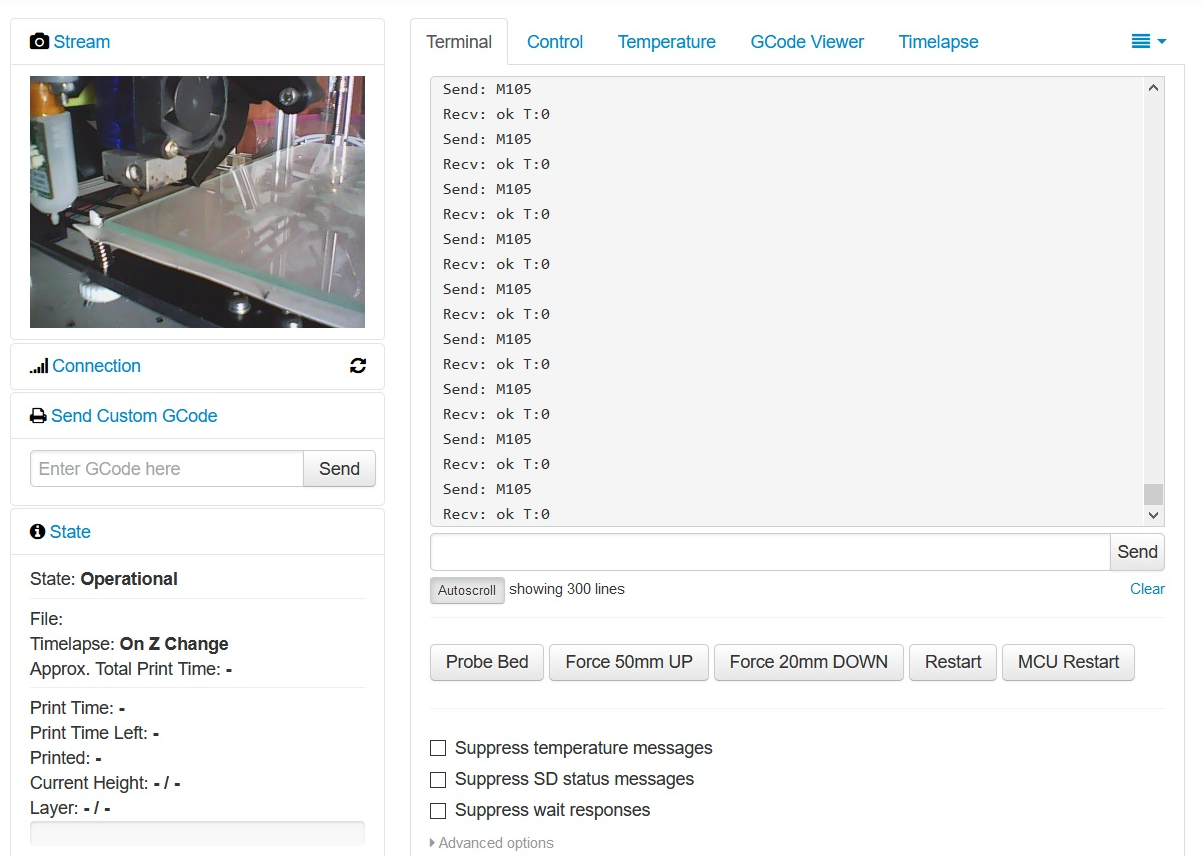
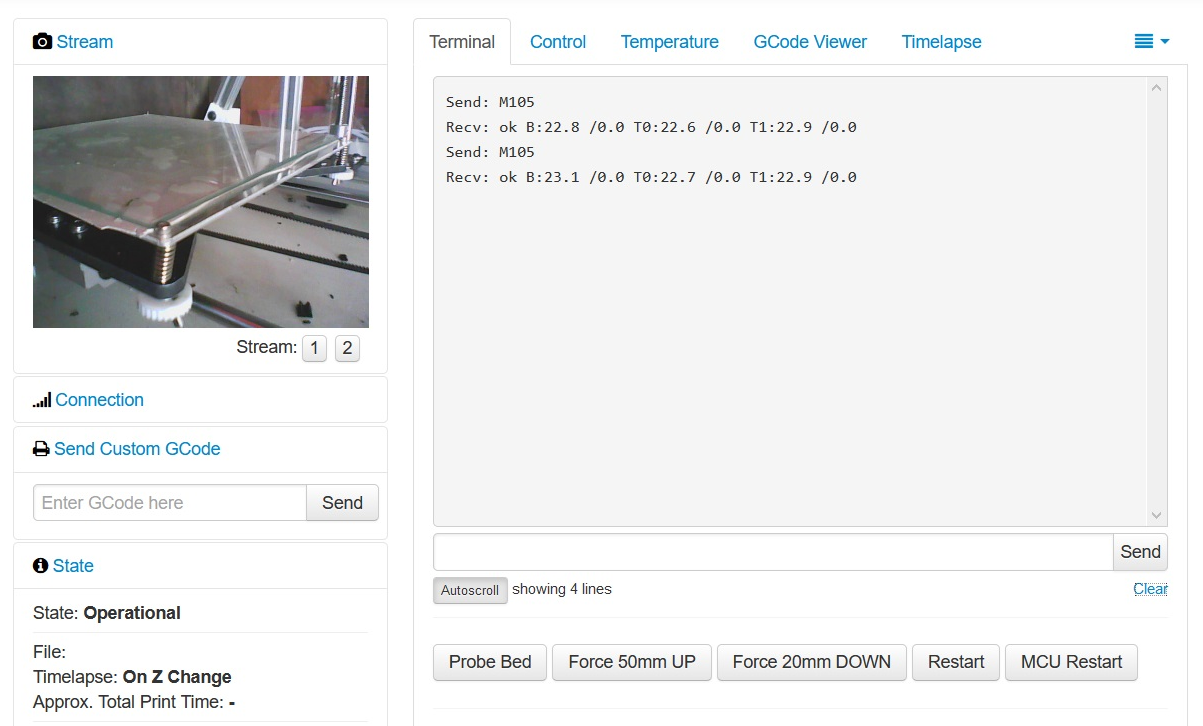
modified:   webcamSB.md 	modified:   ../assets/img/plugins/webcamSB/featured.png 	modified:   ../assets/img/plugins/webcamSB/screen1.png 	deleted:    ../assets/img/plugins/webcamSB/screen2.png

diff --git a/_plugins/webcamSB.md b/_plugins/webcamSB.md
@@ -8,7 +8,7 @@ author: Luis Magar Brunner
 license: AGPLv3
 
 # TODO
-date: 2019-08-17
+date: 2019-09-04
 
 homepage: https://github.com/quanticchaos/OctoPrint-Webcamsb
 source: https://github.com/quanticchaos/OctoPrint-Webcamsb
@@ -28,11 +28,9 @@ tags:
 # TODO
 screenshots:
 - url: /assets/img/plugins/webcamSB/screen1.png
-  alt: Screenshot control
-  caption: Screenchot with terminal
-- url: /assets/img/plugins/webcamSB/screen2.png
   alt: Screenshot settings
   caption: Screenshot of settings
+
 
 # TODO
 featuredimage: /assets/img/plugins/webcamSB/featured.png
@@ -82,5 +80,7 @@ compatibility:
 
 ---
 
-**TODO**: Longer description of your plugin, configuration examples etc. This part will be visible on the page at
-http://plugins.octoprint.org/plugin/webcamSB/
+This plugin adds a webcam stream viewer to the sidebar of Octoprint so you can keep an eye on your print at any moment.
+You can click on the viewer to maximize the view.
+You can flip the image in the configuration (even if left blank to use the default stream).
+You can configure up to four streams (IP cam recommended when using multiple streams).
